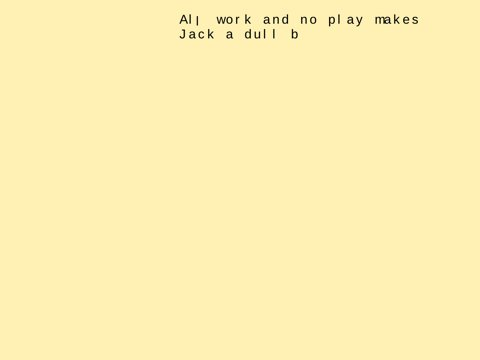
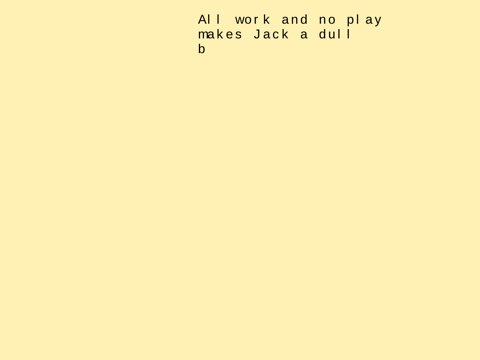
M6b: monospace face + 7 textclient hacks (reuse textclient-mobile.c with bundled-text hooks, no subprocess). 205/209 pass, verified native + wasm

Changed region(s): [[0.375, 0.0306, 0.875, 0.1528]]

diff --git a/web/index.html b/web/index.html
@@ -37,7 +37,7 @@
   <p>Jamie Zawinski's <a href="https://www.jwz.org/xscreensaver/">xscreensaver</a> hacks,
      ported to SDL2 + OpenGL&nbsp;ES&nbsp;2 and compiled to WebAssembly.
      2D hacks render via jwxyz; GL hacks via gl4es (OpenGL&nbsp;&rarr;&nbsp;GLES2) on WebGL.</p>
-  <p style="font-size:12px;margin-top:10px;">198 hacks &middot; click to run &middot;
+  <p style="font-size:12px;margin-top:10px;">205 hacks &middot; click to run &middot;
      press <strong>Esc</strong> or <strong>Q</strong> to exit.</p>
 </header>
 <div class="filters">
@@ -113,9 +113,11 @@
     ["fiberlamp","2D",1],
     ["fireworkx","2D",1],
     ["flame","2D",1],
+    ["fliptext","GL",1],
     ["flow","2D",1],
     ["fluidballs","2D",1],
     ["flurry","GL",1],
+    ["fontglide","2D",1],
     ["forest","2D",1],
     ["fuzzyflakes","2D",1],
     ["galaxy","2D",1],
@@ -130,6 +132,7 @@
     ["glmatrix","GL",1],
     ["glschool","GL",1],
     ["glsnake","GL",1],
+    ["gltext","GL",1],
     ["goop","2D",1],
     ["grav","2D",1],
     ["gravitywell","GL",1],
@@ -219,11 +222,13 @@
     ["sphere","2D",1],
     ["spheremonics","GL",1],
     ["spiral","2D",1],
+    ["splitflap","GL",1],
     ["splodesic","GL",1],
     ["sproingiewrap","GL",1],
     ["squiral","2D",1],
     ["squirtorus","GL",1],
     ["starfish","2D",1],
+    ["starwars","GL",1],
     ["stonerview","GL",1],
     ["strange","2D",1],
     ["substrate","2D",1],
@@ -244,10 +249,12 @@
     ["wander","2D",1],
     ["whirlwindwarp","2D",1],
     ["whirlygig","2D",1],
+    ["winduprobot","GL",1],
     ["worm","2D",1],
     ["wormhole","2D",1],
     ["xjack","2D",1],
     ["xlyap","2D",1],
+    ["xmatrix","2D",1],
     ["xrayswarm","2D",1],
     ["xspirograph","2D",1]
   ];

diff --git a/src/port/textclient-sdl.c b/src/port/textclient-sdl.c
@@ -1,0 +1,81 @@
+/* textclient-sdl.c -- text source for the SDL/web port.
+ *
+ * The textclient hacks (phosphor, apple2, xmatrix, starwars, fontglide,
+ * gltext, ...) stream characters from textclient_getc(). Upstream Unix
+ * pipes from a subprocess (xscreensaver-text); iOS/Android instead call
+ * two platform hooks from utils/textclient-mobile.c. We reuse that file
+ * (its column wrapping and streaming) and provide those two hooks here:
+ * no subprocess, no network -- just bundled public-domain text, which is
+ * also what makes these hacks work in the browser.
+ *
+ * textclient_mobile_date_string() is the source for the default "date"
+ * textMode; we return the current date/time followed by a rotating
+ * public-domain passage, so the hacks show flowing prose out of the box.
+ * textclient_mobile_url_string() is unused (URL mode falls back to date).
+ */
+
+#include "utils.h"
+#include "textclient.h"
+
+#include <stdio.h>
+#include <stdlib.h>
+#include <string.h>
+#include <time.h>
+
+/* Short public-domain passages, returned in rotation. */
+static const char *const passages[] = {
+  "Call me Ishmael. Some years ago -- never mind how long precisely --\n"
+  "having little or no money in my purse, and nothing particular to\n"
+  "interest me on shore, I thought I would sail about a little and see\n"
+  "the watery part of the world.\n",
+
+  "It was the best of times, it was the worst of times, it was the age\n"
+  "of wisdom, it was the age of foolishness, it was the epoch of belief,\n"
+  "it was the epoch of incredulity, it was the season of Light, it was\n"
+  "the season of Darkness.\n",
+
+  "Two roads diverged in a yellow wood,\n"
+  "And sorry I could not travel both\n"
+  "And be one traveler, long I stood\n"
+  "And looked down one as far as I could\n"
+  "To where it bent in the undergrowth.\n",
+
+  "The quick brown fox jumps over the lazy dog.\n"
+  "Pack my box with five dozen liquor jugs.\n"
+  "How vexingly quick daft zebras jump!\n"
+  "The five boxing wizards jump quickly.\n",
+
+  "In the beginning the Universe was created. This has made a lot of\n"
+  "people very angry and been widely regarded as a bad move. Space is\n"
+  "big. Really big. You just won't believe how vastly hugely mind-\n"
+  "bogglingly big it is.\n",
+};
+#define NPASSAGES ((int) (sizeof (passages) / sizeof (passages[0])))
+
+char *
+textclient_mobile_date_string (void)
+{
+  static int which = 0;
+
+  time_t now = time (0);
+  char date[64];
+  struct tm *tm = localtime (&now);
+  if (!tm || !strftime (date, sizeof date, "%a %b %e %H:%M:%S %Y", tm))
+    date[0] = 0;
+
+  const char *body = passages[which];
+  which = (which + 1) % NPASSAGES;
+
+  size_t n = strlen (date) + 2 + strlen (body) + 2;
+  char *s = malloc (n);
+  if (!s) return 0;
+  snprintf (s, n, "%s\n\n%s\n", date, body);
+  return s;
+}
+
+char *
+textclient_mobile_url_string (Display *dpy, const char *url)
+{
+  (void) dpy; (void) url;
+  return 0;   /* no network; URL mode falls back to date */
+}

diff --git a/src/port/jwxyz-font.c b/src/port/jwxyz-font.c
@@ -25,9 +25,11 @@
 #define STBTT_STATIC
 #include "stb_truetype.h"
 
-/* Embedded TTF bytes (generated: cmake/font_data.c from third_party/font). */
-extern const unsigned char xss_font_ttf[];
+/* Embedded TTF bytes (generated from third_party/font by bin2c.py). */
+extern const unsigned char xss_font_ttf[];        /* Liberation Sans   */
 extern const unsigned int  xss_font_ttf_len;
+extern const unsigned char xss_font_mono_ttf[];   /* Liberation Mono   */
+extern const unsigned int  xss_font_mono_ttf_len;
 
 typedef struct {
   stbtt_fontinfo info;
@@ -68,6 +70,22 @@ jwxyz_default_font_family (int require)
   }
 }
 
+/* Case-insensitive substring test over a length-bounded name. */
+static int
+name_has (const char *name, size_t len, const char *needle)
+{
+  size_t nl = strlen (needle);
+  if (len < nl) return 0;
+  for (size_t i = 0; i + nl <= len; i++) {
+    size_t k = 0;
+    while (k < nl &&
+           ((name[i+k] | 0x20) == (needle[k] | 0x20)))
+      k++;
+    if (k == nl) return 1;
+  }
+  return 0;
+}
+
 void *
 jwxyz_load_native_font (Window main_window,
                         int traits_jwxyz, int mask_jwxyz,
@@ -76,14 +94,24 @@ jwxyz_load_native_font (Window main_window,
                         char **family_name_ret,
                         int *ascent_ret, int *descent_ret)
 {
-  (void) main_window; (void) traits_jwxyz; (void) mask_jwxyz;
-  (void) font_name_ptr; (void) font_name_length; (void) font_name_type;
+  (void) main_window; (void) mask_jwxyz; (void) font_name_type;
+
+  /* Pick the monospace face when the caller asked for it by trait, or
+     when the requested family name is a known monospaced one. */
+  int mono = (traits_jwxyz & JWXYZ_STYLE_MONOSPACE) ||
+    (font_name_ptr &&
+     (name_has (font_name_ptr, font_name_length, "courier") ||
+      name_has (font_name_ptr, font_name_length, "mono")    ||
+      name_has (font_name_ptr, font_name_length, "fixed")   ||
+      name_has (font_name_ptr, font_name_length, "console")  ||
+      name_has (font_name_ptr, font_name_length, "terminal")));
+  const unsigned char *ttf = mono ? xss_font_mono_ttf : xss_font_ttf;
 
   xss_font *f = calloc (1, sizeof (*f));
   if (!f) return 0;
 
-  if (!stbtt_InitFont (&f->info, xss_font_ttf,
-                       stbtt_GetFontOffsetForIndex (xss_font_ttf, 0))) {
+  if (!stbtt_InitFont (&f->info, ttf,
+                       stbtt_GetFontOffsetForIndex (ttf, 0))) {
     free (f);
     return 0;
   }
@@ -97,7 +125,8 @@ jwxyz_load_native_font (Window main_window,
   f->ascent  = (int) (a * f->scale + 0.5f);
   f->descent = (int) (-d * f->scale + 0.5f);
 
-  if (family_name_ret) *family_name_ret = strdup ("Liberation Sans");
+  if (family_name_ret)
+    *family_name_ret = strdup (mono ? "Liberation Mono" : "Liberation Sans");
   if (ascent_ret)  *ascent_ret  = f->ascent;
   if (descent_ret) *descent_ret = f->descent;
   return f;

diff --git a/scripts/gen_gallery.py b/scripts/gen_gallery.py
@@ -35,12 +35,15 @@ def registered_hacks():
             continue
         for m in re.finditer(pat, open(f).read()):
             hacks[m.group(1)] = klass
-    # foreach-list registrations in CMakeLists (batch 1)
+    # foreach-list registrations in CMakeLists (batch 1 + textclient)
     text = open(os.path.join(ROOT, "CMakeLists.txt")).read()
-    for listname in ("XSS_2D_BATCH1", "XSS_2D_BATCH1_XLOCK"):
+    for listname in ("XSS_2D_BATCH1", "XSS_2D_BATCH1_XLOCK",
+                     "XSS_2D_TEXTCLIENT"):
         m = re.search(r"set\(" + listname + r"\s+(.*?)\)", text, re.S)
         if m:
-            for n in m.group(1).split():
+            # strip inline comments (e.g. "# noseguy needs assets")
+            body = re.sub(r"#[^\n]*", "", m.group(1))
+            for n in body.split():
                 hacks[n] = "2D"
     hacks["polyhedra"] = "GL"          # manual registration
     hacks.pop("name", None)            # function definitions, not hacks

diff --git a/MILESTONES.md b/MILESTONES.md
@@ -294,6 +294,33 @@ downloadable repo snapshot + evidence (screenshots/logs) + status update.
   ~960MB). Font verified in wasm too -- xjack and unicrud render text in
   headless Chrome. Pages redeploy happens on the next push to main.
 
+- **M6b ✅ (macOS): monospace face + 7 textclient hacks. Sheet 205/209.**
+  Monospace: added a second embedded face (subset Liberation Mono, 91KB),
+  selected in jwxyz-font.c when the caller sets JWXYZ_STYLE_MONOSPACE or
+  the family name matches courier/mono/fixed/console/terminal. xjack now
+  renders monospaced (it asks for Courier/monospace via the Xft layer).
+  Textclient: the terminal/text hacks stream chars from textclient_getc.
+  Upstream Unix pipes a subprocess; we reuse utils/textclient-mobile.c
+  (its column wrapping + streaming) and supply its two platform hooks in
+  src/port/textclient-sdl.c -- no subprocess, no network, so it works in
+  the browser too. The default "date" textMode returns the current date
+  plus a rotating public-domain passage (Moby Dick, Tale of Two Cities,
+  Frost, pangrams, Hitchhiker's), so hacks show flowing prose out of the
+  box. 7 new hacks wired + verified rendering: xmatrix, fontglide (2D),
+  fliptext, gltext (3D extruded text -- gorgeous), starwars (opening
+  crawl), splitflap (split-flap board), winduprobot. GL ones get text
+  through texfont, which builds a GL font texture via jwxyz_render_text.
+  DEFERRED: phosphor + apple2 need depth-1 XYPixmap XGetImage (their
+  font/TV capture) -- a jwxyz-image gap; noseguy needs image assets (M6
+  images).
+  Web: all targets rebuilt (0 failures); gltext/starwars/xmatrix verified
+  rendering in headless Chrome (font + textclient + texfont GL path all
+  work in wasm). Gallery regenerated -> 205 cards (gen_gallery.py now
+  also reads the XSS_2D_TEXTCLIENT list). Gallery 978MB -- still under
+  the 1GB Pages cap but tightening (mono face + 7 hacks added ~57MB);
+  image assets (noseguy et al) will need the two faces trimmed or shared
+  before they fit. Pages redeploy on next push to main.
+
 
 ## M3a (emscripten) -- delivered
 

diff --git a/tests/STATUS.md b/tests/STATUS.md
@@ -2,7 +2,7 @@
 
 Generated by tests/harness.py; rows accumulate across batches.
 
-**blank**: 4 | **pass**: 198 | total: 202
+**blank**: 4 | **pass**: 205 | total: 209
 
 | hack | status | note | platform | date |
 |---|---|---|---|---|
@@ -67,9 +67,11 @@ Generated by tests/harness.py; rows accumulate across batches.
 | fiberlamp | pass | 26 colors | darwin | 2026-07-07 |
 | fireworkx | pass | 423988 colors | darwin | 2026-07-07 |
 | flame | pass | 15 colors | darwin | 2026-07-07 |
+| fliptext | pass | 55 colors | darwin | 2026-07-07 |
 | flow | pass | 200 colors | darwin | 2026-07-07 |
 | fluidballs | pass | 2 colors | darwin | 2026-07-07 |
 | flurry | pass | 2295 colors | darwin | 2026-07-07 |
+| fontglide | pass | 1205 colors | darwin | 2026-07-07 |
 | forest | pass | 20 colors | darwin | 2026-07-07 |
 | fuzzyflakes | pass | 2 colors | darwin | 2026-07-07 |
 | galaxy | pass | 4 colors | darwin | 2026-07-07 |
@@ -84,6 +86,7 @@ Generated by tests/harness.py; rows accumulate across batches.
 | glmatrix | pass | 14549 colors | darwin | 2026-07-07 |
 | glschool | pass | 9622 colors | darwin | 2026-07-07 |
 | glsnake | pass | 888 colors | darwin | 2026-07-07 |
+| gltext | pass | 520 colors | darwin | 2026-07-07 |
 | goop | pass | 13 colors | darwin | 2026-07-07 |
 | grav | pass | 10 colors | darwin | 2026-07-07 |
 | gravitywell | pass | 6515 colors | darwin | 2026-07-07 |
@@ -177,11 +180,13 @@ Generated by tests/harness.py; rows accumulate across batches.
 | sphere | pass | 2 colors | darwin | 2026-07-07 |
 | spheremonics | pass | 672 colors | darwin | 2026-07-07 |
 | spiral | pass | 5 colors | darwin | 2026-07-07 |
+| splitflap | pass | 386 colors | darwin | 2026-07-07 |
 | splodesic | pass | 310 colors | darwin | 2026-07-07 |
 | sproingiewrap | pass | 9409 colors | darwin | 2026-07-07 |
 | squiral | pass | 39 colors | darwin | 2026-07-07 |
 | squirtorus | pass | 4669 colors | darwin | 2026-07-07 |
 | starfish | pass | 40 colors | darwin | 2026-07-07 |
+| starwars | pass | 1471 colors | darwin | 2026-07-07 |
 | stonerview | pass | 90 colors | darwin | 2026-07-07 |
 | strange | pass | 2 colors | darwin | 2026-07-07 |
 | substrate | pass | 604 colors | darwin | 2026-07-07 |
@@ -202,9 +207,11 @@ Generated by tests/harness.py; rows accumulate across batches.
 | wander | pass | 3 colors | darwin | 2026-07-07 |
 | whirlwindwarp | pass | 401 colors | darwin | 2026-07-07 |
 | whirlygig | pass | 3 colors | darwin | 2026-07-07 |
+| winduprobot | pass | 18280 colors | darwin | 2026-07-07 |
 | worm | pass | 42 colors | darwin | 2026-07-07 |
 | wormhole | pass | 34 colors | darwin | 2026-07-07 |
 | xjack | pass | 258 colors | darwin | 2026-07-07 |
 | xlyap | pass | 200 colors | darwin | 2026-07-07 |
+| xmatrix | pass | 11 colors | darwin | 2026-07-07 |
 | xrayswarm | pass | 31 colors | darwin | 2026-07-07 |
 | xspirograph | pass | 3 colors | darwin | 2026-07-07 |